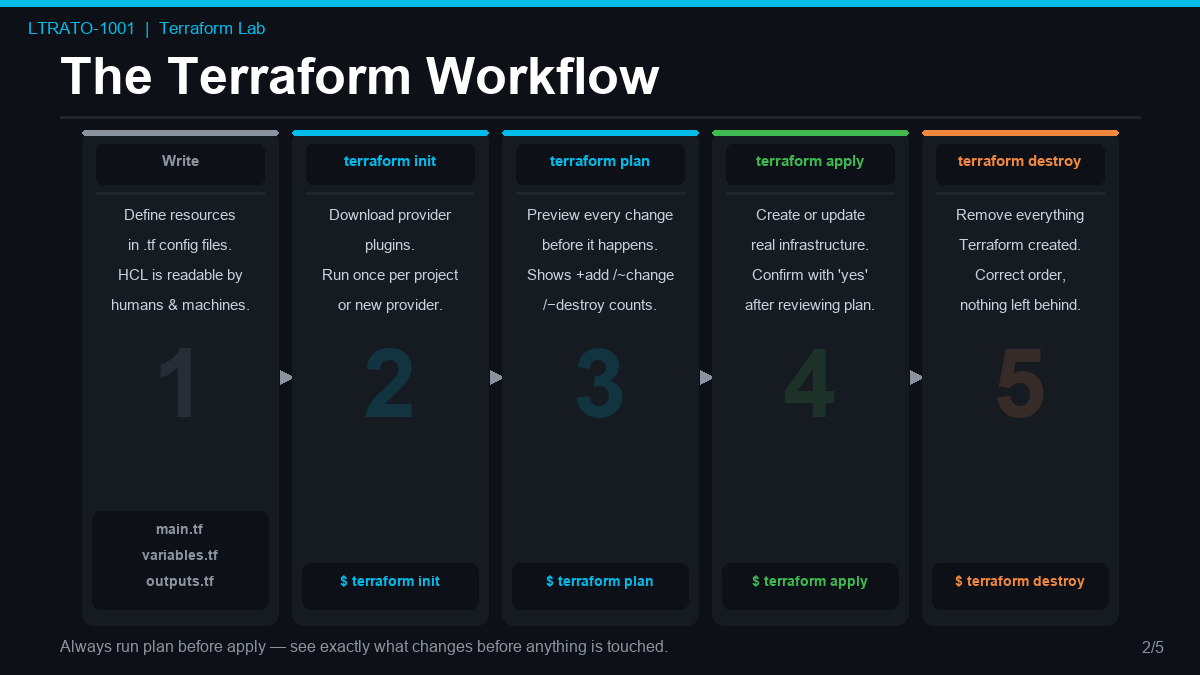
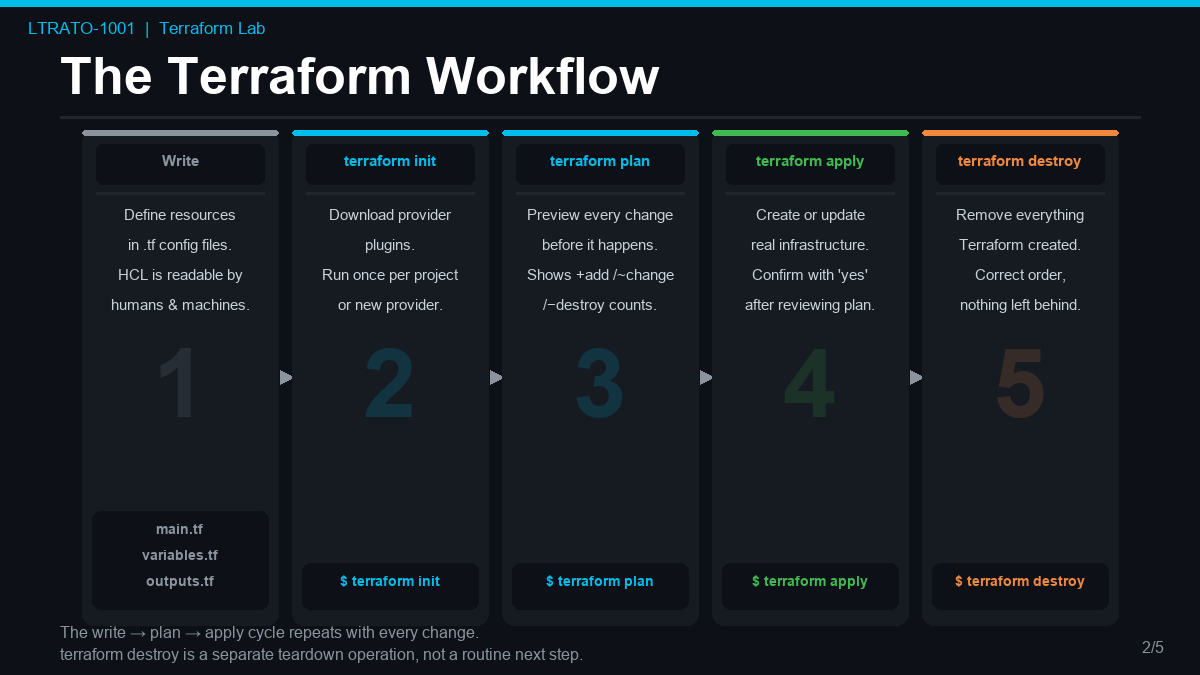
Correct Terraform lifecycle: loop framing, destroy as teardown, 2-line slide footer

Changed region(s): [[0.0308, 0.9333, 0.555, 0.9956]]

diff --git a/slides/generate_slides.py b/slides/generate_slides.py
@@ -272,8 +272,14 @@ def slide2():
             d.polygon([(ax, ay - 7), (ax + GAP, ay), (ax, ay + 7)], fill=GREY_MD)
 
     d.text(
-        (60, H - 38),
-        "Always run plan before apply — see exactly what changes before anything is touched.",
+        (60, H - 52),
+        "The write \u2192 plan \u2192 apply cycle repeats with every change.",
+        font=font(16),
+        fill=GREY_MD,
+    )
+    d.text(
+        (60, H - 30),
+        "terraform destroy is a separate teardown operation, not a routine next step.",
         font=font(16),
         fill=GREY_MD,
     )

diff --git a/terraform-lab-guide.md b/terraform-lab-guide.md
@@ -39,6 +39,17 @@ In a network engineering context, Terraform is increasingly used to:
 | 1 | **Write** | Define your infrastructure in `.tf` config files using HCL. Describe *what* you want — Terraform figures out *how* to build it. |
 | 2 | `terraform init` | Downloads and installs the provider plugins your configuration requires. Run once per project, or whenever you add a new provider. |
 | 3 | `terraform plan` | Compares your config against the current state and previews every change — additions, modifications, and deletions — before anything is touched. |
+| 4 | `terraform apply` | Executes the plan and creates or updates real infrastructure to match your configuration. **Loop back to Write → plan → apply for every subsequent change.** |
+| — | `terraform destroy` | Teardown only — removes every resource Terraform created when you are done with the environment. Not a routine step after every apply. |
+
+> **The real lifecycle is a loop:** Write → plan → apply → Write → plan → apply, repeating with every change. `terraform destroy` is a separate decommission operation — not a routine next step after every apply.
+
+
+| Step | Command | What it does |
+|---|---|---|
+| 1 | **Write** | Define your infrastructure in `.tf` config files using HCL. Describe *what* you want — Terraform figures out *how* to build it. |
+| 2 | `terraform init` | Downloads and installs the provider plugins your configuration requires. Run once per project, or whenever you add a new provider. |
+| 3 | `terraform plan` | Compares your config against the current state and previews every change — additions, modifications, and deletions — before anything is touched. |
 | 4 | `terraform apply` | Executes the plan and creates or updates real infrastructure to match your configuration. |
 | 5 | `terraform destroy` | Removes every resource Terraform created, in the correct dependency order, leaving nothing behind. |
 
